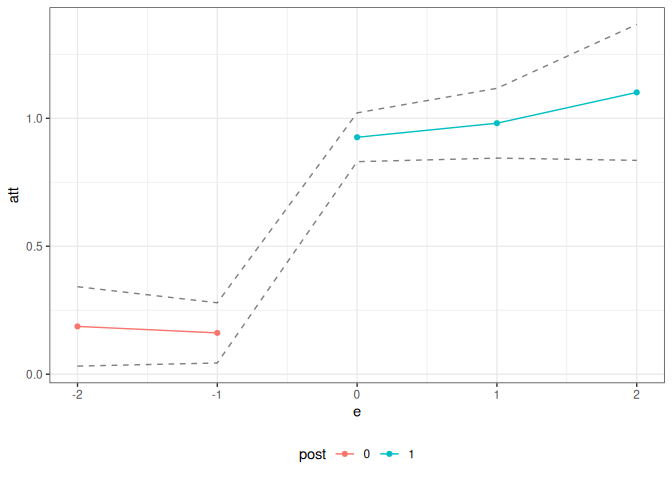
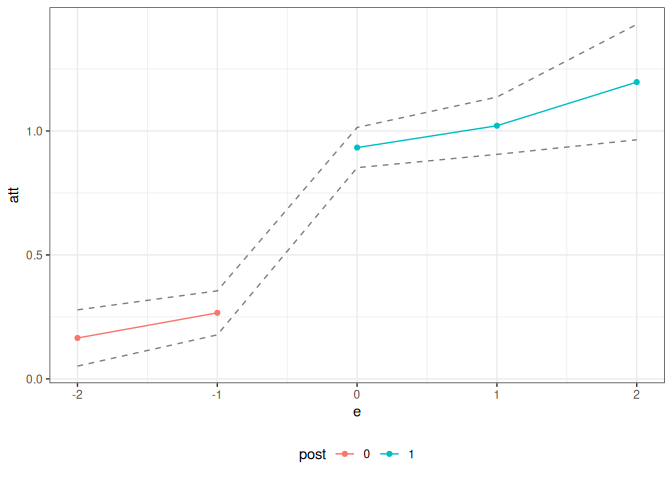
update readme, improvements to printing summaries

diff --git a/README.md b/README.md
@@ -29,6 +29,7 @@ treatment `D` has no affect on the outcome.
 # Simulate data
 set.seed(123)
 sp <- did::reset.sim()
+sp$n <- 10000
 df <- did::build_sim_dataset(sp)
 n <- length(unique(df$id))
 D <- runif(n, 0, 1)
@@ -115,18 +116,194 @@ cd_res <- cont_did(
 )
 
 summary(cd_res)
-#>                 Length Class      Mode   
-#> dose                90 -none-     numeric
-#> att.d               90 -none-     numeric
-#> att.d_se            90 -none-     numeric
-#> att.d_crit.val       1 -none-     numeric
-#> att.d_inffunc   362160 -none-     numeric
-#> acrt.d              90 -none-     numeric
-#> acrt.d_se           90 -none-     numeric
-#> acrt.d_crit.val      1 -none-     numeric
-#> acrt.d_inffunc  362160 -none-     numeric
-#> pte_params          26 pte_params list   
-#> call                 0 -none-     NULL
+#> ATT(d):
+#>    dose ATT(d) Std. Error [95% Simult.  Conf. Band]  
+#>  0.0966 1.2933     0.1205        0.9557      1.6308 *
+#>  0.1080 1.3225     0.1029        1.0341      1.6108 *
+#>  0.1172 1.3439     0.0883        1.0964      1.5913 *
+#>  0.1281 1.3669     0.0762        1.1536      1.5803 *
+#>  0.1401 1.3891     0.0696        1.1943      1.5840 *
+#>  0.1501 1.4052     0.0639        1.2262      1.5843 *
+#>  0.1598 1.4192     0.0504        1.2781      1.5603 *
+#>  0.1706 1.4324     0.0571        1.2724      1.5925 *
+#>  0.1812 1.4433     0.0514        1.2995      1.5872 *
+#>  0.1898 1.4509     0.0569        1.2915      1.6102 *
+#>  0.1993 1.4577     0.0594        1.2913      1.6241 *
+#>  0.2084 1.4629     0.0627        1.2873      1.6385 *
+#>  0.2186 1.4672     0.0640        1.2878      1.6466 *
+#>  0.2282 1.4700     0.0636        1.2918      1.6483 *
+#>  0.2402 1.4718     0.0671        1.2839      1.6597 *
+#>  0.2525 1.4718     0.0680        1.2813      1.6624 *
+#>  0.2636 1.4704     0.0659        1.2857      1.6551 *
+#>  0.2745 1.4678     0.0651        1.2854      1.6501 *
+#>  0.2859 1.4638     0.0647        1.2826      1.6451 *
+#>  0.2986 1.4582     0.0637        1.2797      1.6367 *
+#>  0.3087 1.4529     0.0594        1.2867      1.6192 *
+#>  0.3189 1.4470     0.0570        1.2873      1.6067 *
+#>  0.3296 1.4401     0.0587        1.2757      1.6044 *
+#>  0.3393 1.4334     0.0583        1.2702      1.5966 *
+#>  0.3488 1.4266     0.0545        1.2740      1.5792 *
+#>  0.3586 1.4192     0.0510        1.2763      1.5622 *
+#>  0.3677 1.4123     0.0499        1.2726      1.5519 *
+#>  0.3778 1.4044     0.0510        1.2617      1.5472 *
+#>  0.3898 1.3951     0.0471        1.2632      1.5270 *
+#>  0.4000 1.3873     0.0452        1.2606      1.5140 *
+#>  0.4104 1.3795     0.0445        1.2548      1.5041 *
+#>  0.4207 1.3720     0.0366        1.2694      1.4746 *
+#>  0.4308 1.3651     0.0385        1.2572      1.4729 *
+#>  0.4425 1.3576     0.0427        1.2379      1.4774 *
+#>  0.4528 1.3516     0.0454        1.2245      1.4788 *
+#>  0.4627 1.3465     0.0469        1.2151      1.4779 *
+#>  0.4711 1.3427     0.0471        1.2108      1.4746 *
+#>  0.4812 1.3389     0.0482        1.2040      1.4738 *
+#>  0.4930 1.3356     0.0507        1.1937      1.4775 *
+#>  0.5031 1.3338     0.0535        1.1840      1.4837 *
+#>  0.5128 1.3332     0.0524        1.1865      1.4799 *
+#>  0.5228 1.3336     0.0511        1.1905      1.4766 *
+#>  0.5325 1.3350     0.0511        1.1919      1.4781 *
+#>  0.5436 1.3378     0.0506        1.1961      1.4795 *
+#>  0.5530 1.3411     0.0529        1.1928      1.4894 *
+#>  0.5666 1.3470     0.0554        1.1919      1.5021 *
+#>  0.5759 1.3519     0.0571        1.1920      1.5119 *
+#>  0.5852 1.3574     0.0557        1.2014      1.5134 *
+#>  0.5946 1.3635     0.0552        1.2090      1.5180 *
+#>  0.6039 1.3700     0.0535        1.2200      1.5199 *
+#>  0.6130 1.3767     0.0528        1.2289      1.5245 *
+#>  0.6215 1.3832     0.0542        1.2312      1.5351 *
+#>  0.6310 1.3908     0.0548        1.2373      1.5443 *
+#>  0.6410 1.3990     0.0496        1.2600      1.5380 *
+#>  0.6534 1.4094     0.0439        1.2865      1.5323 *
+#>  0.6620 1.4167     0.0403        1.3038      1.5295 *
+#>  0.6727 1.4258     0.0403        1.3128      1.5388 *
+#>  0.6816 1.4332     0.0409        1.3187      1.5477 *
+#>  0.6911 1.4411     0.0416        1.3246      1.5575 *
+#>  0.7032 1.4508     0.0445        1.3261      1.5754 *
+#>  0.7120 1.4576     0.0450        1.3315      1.5837 *
+#>  0.7207 1.4640     0.0481        1.3292      1.5988 *
+#>  0.7304 1.4708     0.0488        1.3339      1.6076 *
+#>  0.7385 1.4760     0.0512        1.3326      1.6194 *
+#>  0.7482 1.4819     0.0524        1.3350      1.6287 *
+#>  0.7577 1.4869     0.0546        1.3340      1.6398 *
+#>  0.7684 1.4919     0.0558        1.3355      1.6482 *
+#>  0.7775 1.4953     0.0573        1.3347      1.6560 *
+#>  0.7878 1.4984     0.0584        1.3347      1.6620 *
+#>  0.7976 1.5003     0.0590        1.3350      1.6657 *
+#>  0.8086 1.5013     0.0578        1.3394      1.6632 *
+#>  0.8182 1.5011     0.0571        1.3410      1.6612 *
+#>  0.8280 1.4997     0.0544        1.3473      1.6521 *
+#>  0.8369 1.4974     0.0544        1.3452      1.6497 *
+#>  0.8465 1.4937     0.0567        1.3350      1.6525 *
+#>  0.8568 1.4883     0.0571        1.3283      1.6484 *
+#>  0.8655 1.4826     0.0576        1.3212      1.6440 *
+#>  0.8745 1.4754     0.0536        1.3251      1.6256 *
+#>  0.8847 1.4656     0.0541        1.3140      1.6172 *
+#>  0.8920 1.4574     0.0535        1.3077      1.6072 *
+#>  0.9016 1.4453     0.0581        1.2826      1.6081 *
+#>  0.9114 1.4313     0.0621        1.2572      1.6054 *
+#>  0.9218 1.4143     0.0644        1.2340      1.5946 *
+#>  0.9313 1.3971     0.0693        1.2029      1.5912 *
+#>  0.9417 1.3758     0.0724        1.1730      1.5787 *
+#>  0.9509 1.3553     0.0776        1.1380      1.5726 *
+#>  0.9608 1.3311     0.0881        1.0842      1.5780 *
+#>  0.9716 1.3020     0.1073        1.0013      1.6027 *
+#>  0.9822 1.2706     0.1140        0.9513      1.5898 *
+#>  0.9909 1.2430     0.1215        0.9026      1.5834 *
+#> 
+#> 
+#> ACRT(d):
+#>    dose ACRT(d) Std. Error [95% Simult.  Conf. Band] 
+#>  0.0966  2.7132     1.6341       -2.3387      7.7651 
+#>  0.1080  2.4394     1.5059       -2.2161      7.0948 
+#>  0.1172  2.2263     1.4313       -2.1984      6.6510 
+#>  0.1281  1.9807     1.3087       -2.0650      6.0263 
+#>  0.1401  1.7245     1.2233       -2.0574      5.5063 
+#>  0.1501  1.5219     1.1387       -1.9985      5.0422 
+#>  0.1598  1.3305     1.0573       -1.9381      4.5990 
+#>  0.1706  1.1292     0.9455       -1.7938      4.0522 
+#>  0.1812  0.9422     0.8194       -1.5909      3.4753 
+#>  0.1898  0.7956     0.7281       -1.4554      3.0465 
+#>  0.1993  0.6422     0.6085       -1.2390      2.5235 
+#>  0.2084  0.5038     0.5778       -1.2823      2.2899 
+#>  0.2186  0.3562     0.5613       -1.3790      2.0914 
+#>  0.2282  0.2248     0.4756       -1.2455      1.6951 
+#>  0.2402  0.0723     0.4205       -1.2277      1.3724 
+#>  0.2525 -0.0697     0.3889       -1.2720      1.1326 
+#>  0.2636 -0.1881     0.3496       -1.2688      0.8925 
+#>  0.2745 -0.2928     0.2564       -1.0854      0.4999 
+#>  0.2859 -0.3923     0.2876       -1.2813      0.4967 
+#>  0.2986 -0.4889     0.3300       -1.5090      0.5312 
+#>  0.3087 -0.5563     0.3651       -1.6851      0.5725 
+#>  0.3189 -0.6149     0.3924       -1.8281      0.5983 
+#>  0.3296 -0.6672     0.4031       -1.9135      0.5791 
+#>  0.3393 -0.7058     0.4261       -2.0230      0.6115 
+#>  0.3488 -0.7353     0.4401       -2.0959      0.6253 
+#>  0.3586 -0.7581     0.4689       -2.2075      0.6914 
+#>  0.3677 -0.7714     0.4916       -2.2913      0.7484 
+#>  0.3778 -0.7780     0.5074       -2.3466      0.7907 
+#>  0.3898 -0.7742     0.4973       -2.3115      0.7632 
+#>  0.4000 -0.7612     0.5077       -2.3308      0.8085 
+#>  0.4104 -0.7385     0.5056       -2.3015      0.8244 
+#>  0.4207 -0.7070     0.4960       -2.2404      0.8264 
+#>  0.4308 -0.6668     0.4786       -2.1462      0.8126 
+#>  0.4425 -0.6097     0.4476       -1.9933      0.7740 
+#>  0.4528 -0.5492     0.4171       -1.8387      0.7404 
+#>  0.4627 -0.4827     0.3886       -1.6839      0.7185 
+#>  0.4711 -0.4190     0.3779       -1.5872      0.7492 
+#>  0.4812 -0.3352     0.3434       -1.3968      0.7264 
+#>  0.4930 -0.2255     0.3244       -1.2285      0.7775 
+#>  0.5031 -0.1220     0.3072       -1.0717      0.8278 
+#>  0.5128 -0.0144     0.2813       -0.8841      0.8553 
+#>  0.5228  0.0972     0.2595       -0.7051      0.8996 
+#>  0.5325  0.1976     0.2529       -0.5841      0.9794 
+#>  0.5436  0.3040     0.2624       -0.5071      1.1150 
+#>  0.5530  0.3868     0.2587       -0.4129      1.1864 
+#>  0.5666  0.4939     0.2509       -0.2818      1.2697 
+#>  0.5759  0.5592     0.2592       -0.2421      1.3605 
+#>  0.5852  0.6181     0.2856       -0.2649      1.5010 
+#>  0.5946  0.6708     0.2788       -0.1911      1.5328 
+#>  0.6039  0.7162     0.2997       -0.2102      1.6426 
+#>  0.6130  0.7542     0.3177       -0.2278      1.7362 
+#>  0.6215  0.7836     0.3145       -0.1885      1.7558 
+#>  0.6310  0.8104     0.3331       -0.2193      1.8401 
+#>  0.6410  0.8309     0.3465       -0.2403      1.9021 
+#>  0.6534  0.8456     0.3555       -0.2535      1.9446 
+#>  0.6620  0.8489     0.3555       -0.2501      1.9478 
+#>  0.6727  0.8450     0.3551       -0.2526      1.9426 
+#>  0.6816  0.8352     0.3615       -0.2825      1.9529 
+#>  0.6911  0.8179     0.3611       -0.2984      1.9341 
+#>  0.7032  0.7859     0.3634       -0.3375      1.9093 
+#>  0.7120  0.7555     0.3575       -0.3498      1.8608 
+#>  0.7207  0.7196     0.3545       -0.3764      1.8155 
+#>  0.7304  0.6727     0.3535       -0.4202      1.7657 
+#>  0.7385  0.6281     0.3485       -0.4494      1.7056 
+#>  0.7482  0.5676     0.3387       -0.4795      1.6147 
+#>  0.7577  0.5020     0.3299       -0.5180      1.5220 
+#>  0.7684  0.4195     0.3198       -0.5693      1.4083 
+#>  0.7775  0.3424     0.2996       -0.5839      1.2687 
+#>  0.7878  0.2476     0.2811       -0.6213      1.1165 
+#>  0.7976  0.1496     0.2552       -0.6392      0.9384 
+#>  0.8086  0.0310     0.2526       -0.7499      0.8119 
+#>  0.8182 -0.0810     0.2491       -0.8511      0.6892 
+#>  0.8280 -0.2018     0.2580       -0.9995      0.5959 
+#>  0.8369 -0.3172     0.3020       -1.2507      0.6164 
+#>  0.8465 -0.4497     0.3634       -1.5731      0.6736 
+#>  0.8568 -0.5998     0.4085       -1.8627      0.6631 
+#>  0.8655 -0.7313     0.4533       -2.1326      0.6699 
+#>  0.8745 -0.8745     0.4861       -2.3772      0.6282 
+#>  0.8847 -1.0448     0.5430       -2.7235      0.6339 
+#>  0.8920 -1.1722     0.5907       -2.9983      0.6538 
+#>  0.9016 -1.3451     0.6333       -3.3029      0.6126 
+#>  0.9114 -1.5286     0.6930       -3.6709      0.6137 
+#>  0.9218 -1.7320     0.7499       -4.0502      0.5862 
+#>  0.9313 -1.9234     0.7992       -4.3941      0.5473 
+#>  0.9417 -2.1430     0.8456       -4.7573      0.4712 
+#>  0.9509 -2.3427     0.8799       -5.0628      0.3775 
+#>  0.9608 -2.5651     0.9339       -5.4523      0.3220 
+#>  0.9716 -2.8171     1.0198       -5.9697      0.3356 
+#>  0.9822 -3.0750     1.0922       -6.4516      0.3016 
+#>  0.9909 -3.2903     1.1526       -6.8535      0.2729 
+#> ---
+#> Signif. codes: `*' confidence band does not cover 0
 ggcont_did(cd_res, type = "att")
 ```
 
@@ -164,16 +341,16 @@ summary(cd_res_es_level)
 #> 
 #> Overall ATT:  
 #>     ATT    Std. Error     [ 95%  Conf. Int.]  
-#>  0.9862        0.0544     0.8795      1.0929 *
+#>  1.0171        0.0336     0.9513       1.083 *
 #> 
 #> 
 #> Dynamic Effects:
 #>  Event Time Estimate Std. Error  [95%  Conf. Band]  
-#>          -2   0.1867     0.0672 0.0316      0.3419 *
-#>          -1   0.1614     0.0510 0.0438      0.2790 *
-#>           0   0.9258     0.0413 0.8305      1.0212 *
-#>           1   0.9808     0.0591 0.8444      1.1171 *
-#>           2   1.1012     0.1151 0.8356      1.3669 *
+#>          -2   0.1651     0.0419 0.0516      0.2785 *
+#>          -1   0.2665     0.0327 0.1777      0.3552 *
+#>           0   0.9330     0.0299 0.8519      1.0141 *
+#>           1   1.0211     0.0427 0.9055      1.1367 *
+#>           2   1.1971     0.0859 0.9644      1.4298 *
 #> ---
 #> Signif. codes: `*' confidence band does not cover 0
 ggcont_did(cd_res_es_level)
@@ -203,18 +380,18 @@ cd_res_es_slope <- cont_did(
 
 summary(cd_res_es_slope)
 #> 
-#> Overall ATT:  
-#>      ATT    Std. Error     [ 95%  Conf. Int.]  
-#>  -0.3625        0.1075    -0.5732     -0.1517 *
+#> Overall ACRT:  
+#>      ATT    Std. Error     [ 95%  Conf. Int.] 
+#>  -0.0582        0.0619    -0.1794      0.0631 
 #> 
 #> 
 #> Dynamic Effects:
-#>  Event Time Estimate Std. Error   [95%  Conf. Band]  
-#>          -2  -0.3583     0.1038 -0.5969     -0.1197 *
-#>          -1  -0.1641     0.1008 -0.3957      0.0674  
-#>           0  -0.2125     0.0711 -0.3760     -0.0491 *
-#>           1  -0.6557     0.1181 -0.9271     -0.3844 *
-#>           2  -1.0936     0.3533 -1.9054     -0.2818 *
+#>  Event Time Estimate Std. Error   [95%  Conf. Band] 
+#>          -2   0.0943     0.0895 -0.1433      0.3319 
+#>          -1   0.0234     0.0648 -0.1485      0.1953 
+#>           0   0.0435     0.0538 -0.0994      0.1864 
+#>           1  -0.1086     0.1095 -0.3991      0.1819 
+#>           2  -0.4764     0.2681 -1.1880      0.2352 
 #> ---
 #> Signif. codes: `*' confidence band does not cover 0
 ggcont_did(cd_res_es_slope)
